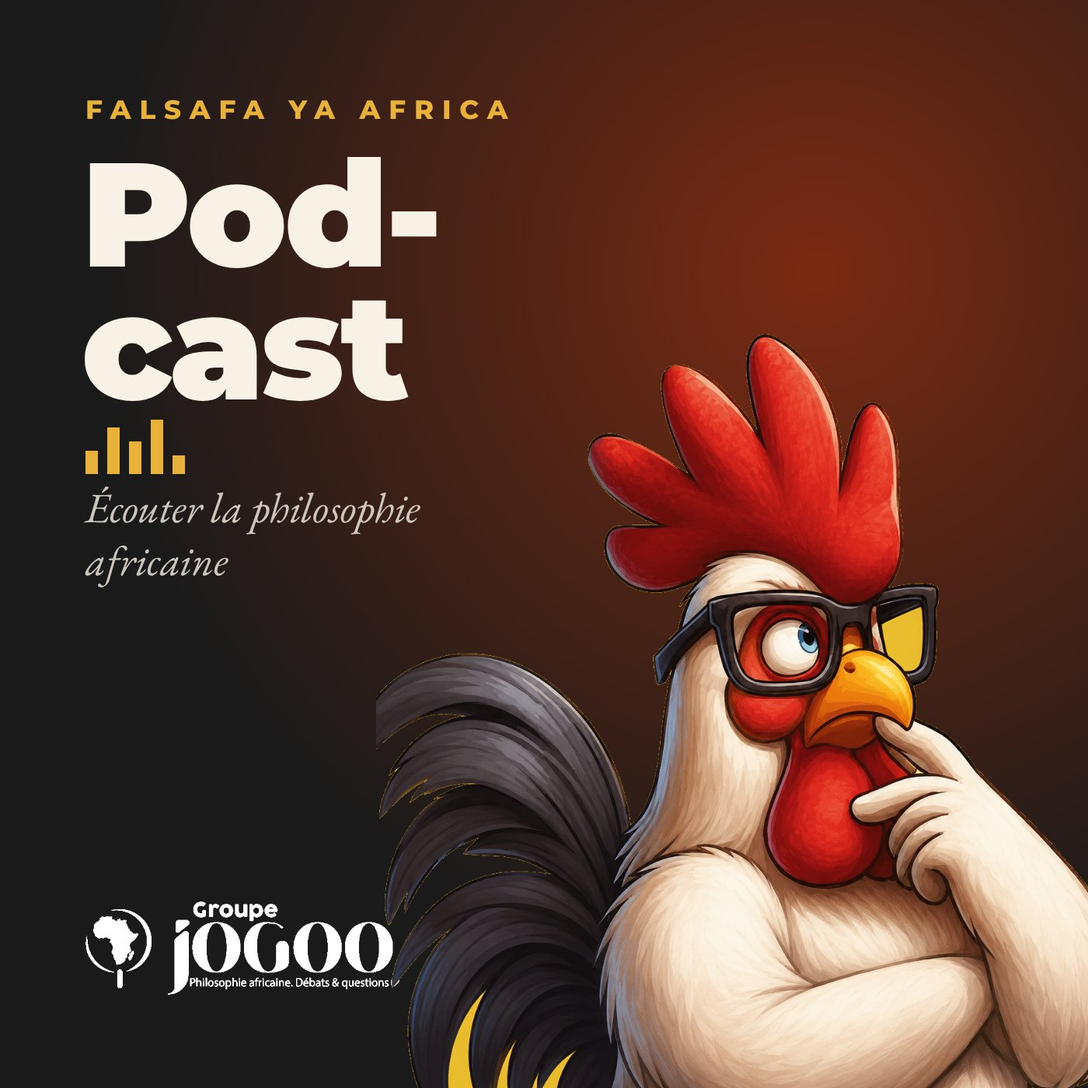
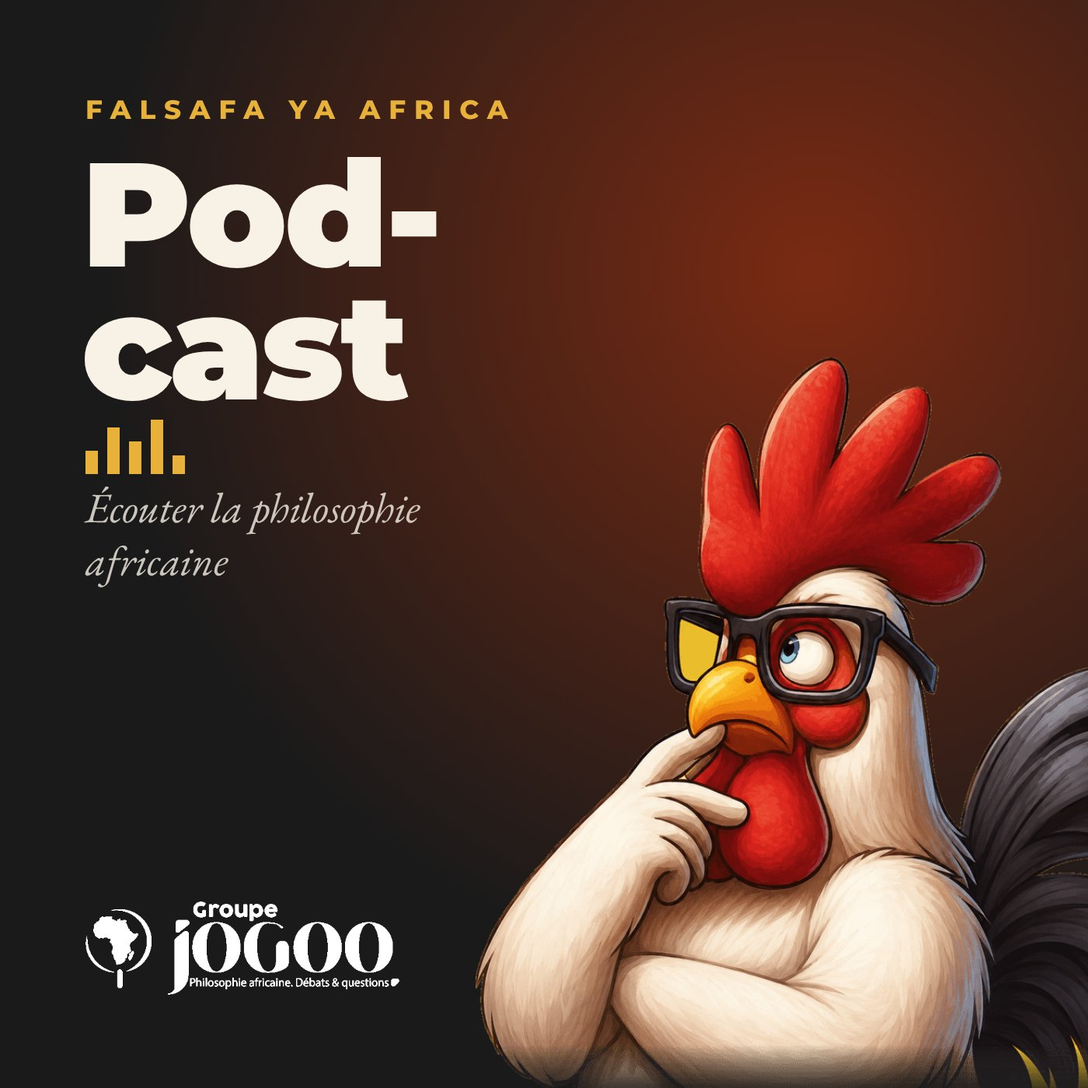
Le coq regarde toujours vers la gauche ; le bout de sa queue, coupé dans le dessin d'origine, s'estompe (accueil, minute du chant du coq, version anglaise, Le Groupe, 404, couverture du podcast, aperçus)
Claude-Session: https://claude.ai/code/session_01Ei6ZiGm8YCTrBxFjrVoT4D

Changed region(s): [[0.3379, 0.3071, 1.0, 1.0]]

diff --git a/design/fragments/page__le-groupe.html b/design/fragments/page__le-groupe.html
@@ -1,1 +1,1 @@
-<header class="relative overflow-hidden border-b border-ink/10 bg-cream/60"><img alt="" aria-hidden="true" class="pointer-events-none absolute -right-10 -top-12 hidden opacity-[0.06] sm:block" decoding="async" height="260" loading="lazy" src="/medias/site/jogoo/icone-jogoo.png" style="width:260px;height:auto" width="260"/><div class="relative mx-auto max-w-6xl px-5 py-14 sm:py-20"><div class="flex items-center gap-3"><span aria-hidden="true" class="inline-flex shrink-0 items-center justify-center bg-terra text-white shrink-0" style="width:34px;height:34px"><img alt="" class="object-contain brightness-0 invert" decoding="async" height="99" loading="lazy" src="/medias/site/jogoo/icons/projet.png" style="max-width:20px;max-height:20px;width:auto;height:auto" width="100"/></span><span class="kicker">Présentation</span></div><h1 class="display-title mt-4 max-w-4xl break-words text-4xl leading-[0.95] text-ink sm:text-6xl lg:text-7xl">Le Groupe JOGOO</h1><p class="mt-6 max-w-2xl font-serif text-lg italic text-ink/80">« Association des Philosophes du Chant du Coq » : un projet de réflexion sur la pensée philosophique dans son ensemble.</p></div></header><section class="border-b border-ink/10 bg-ink text-paper"><dl class="mx-auto grid max-w-6xl gap-px bg-white/10 sm:grid-cols-2 lg:grid-cols-4"><div class="flex gap-4 bg-ink px-6 py-8"><svg aria-hidden="true" class="mt-1 shrink-0 text-gold/70" fill="none" height="26" stroke="currentColor" stroke-linecap="round" stroke-linejoin="round" stroke-width="1.6" viewbox="0 0 24 24" width="26"><path d="M8 3v4M16 3v4M3.5 9h17M5 6h14a1.5 1.5 0 0 1 1.5 1.5V19a1.5 1.5 0 0 1-1.5 1.5H5A1.5 1.5 0 0 1 3.5 19V7.5A1.5 1.5 0 0 1 5 6Z"></path></svg><div><dt class="display-title text-3xl text-gold">2010</dt><dd class="mt-1.5 max-w-[22ch] text-sm leading-snug text-paper/70">Année de fondation</dd></div></div><div class="flex gap-4 bg-ink px-6 py-8"><svg aria-hidden="true" class="mt-1 shrink-0 text-gold/70" fill="none" height="26" stroke="currentColor" stroke-linecap="round" stroke-linejoin="round" stroke-width="1.6" viewbox="0 0 24 24" width="26"><path d="M9 12.5 11 15l4.5-5M6 3h9l4 4v13.5a.5.5 0 0 1-.5.5H6.5a.5.5 0 0 1-.5-.5V3.5A.5.5 0 0 1 6 3Z"></path></svg><div><dt class="display-title text-3xl text-gold">15 mars 2023</dt><dd class="mt-1.5 max-w-[22ch] text-sm leading-snug text-paper/70">Déclaration en association (n° 00000423/RDA/JO6/BAPP)</dd></div></div><div class="flex gap-4 bg-ink px-6 py-8"><svg aria-hidden="true" class="mt-1 shrink-0 text-gold/70" fill="none" height="26" stroke="currentColor" stroke-linecap="round" stroke-linejoin="round" stroke-width="1.6" viewbox="0 0 24 24" width="26"><circle cx="12" cy="4.5" r="2"></circle><circle cx="5" cy="19.5" r="2"></circle><circle cx="19" cy="19.5" r="2"></circle><path d="M12 6.5v6M12 12.5 5 17.5M12 12.5l7 5"></path></svg><div><dt class="display-title text-3xl text-gold">6</dt><dd class="mt-1.5 max-w-[22ch] text-sm leading-snug text-paper/70">Projets autonomes</dd></div></div><div class="flex gap-4 bg-ink px-6 py-8"><svg aria-hidden="true" class="mt-1 shrink-0 text-gold/70" fill="none" height="26" stroke="currentColor" stroke-linecap="round" stroke-linejoin="round" stroke-width="1.6" viewbox="0 0 24 24" width="26"><circle cx="12" cy="12" r="8.5"></circle><path d="m14.8 9.2-2 4.6-4.6 2 2-4.6 4.6-2Z"></path></svg><div><dt class="display-title text-3xl text-gold">10</dt><dd class="mt-1.5 max-w-[22ch] text-sm leading-snug text-paper/70">Axes de recherche</dd></div></div></dl></section><section class="mx-auto max-w-6xl px-5 py-16"><div class=""><p class="kicker mb-2">Fondé en 2010</p><h2 class="display-title text-3xl text-terra sm:text-4xl">Le Pro-jet</h2></div><div class="mt-8 grid gap-10 lg:grid-cols-[1.4fr_1fr]"><div class="prose-jogoo max-w-none"><p>Fondé en 2010, le Groupe JOGOO est déclaré comme association sous le numéro 00000423/RDA/JO6/BAPP du 15 mars 2023 selon la législation camerounaise, sous le sigle ASPHICC-JOGOO : « Association des Philosophes du Chant du Coq ».</p><p>JOGOO est un projet de réflexion sur la pensée philosophique dans son ensemble, qui voudrait situer ses enjeux par rapport à la pensée noire, par des Africains tout comme par des non-Africains, sur des problèmes et des problématiques de l’humain.</p></div><aside class="self-start overflow-hidden border border-ink/10 bg-cream/60"><div class="flex items-center justify-center bg-gold px-6 pt-8"><img alt="Le coq penseur, emblème du Groupe JOGOO" class="h-40 w-auto [filter:drop-shadow(0_10px_14px_rgba(60,35,5,0.3))]" decoding="async" height="1232" loading="lazy" src="/medias/site/jogoo/coq-penseur-t.png" width="1203"/></div><div class="border-t-2 border-terra p-6"><p class="font-serif text-lg italic leading-relaxed text-ink">Le mot « Jogoo » désigne le « coq » en swahili. Cette image est mise en valeur lors des journées philosophiques organisées par le département de philosophie de Lubumbashi (RDC) au sujet de l’enseignement de la philosophie. Contrairement à la chouette de Hegel, animal du crépuscule, le coq est l’animal de l’aurore : celui qui nous réveille, celui qui nous met au travail. La palette africaine des couleurs de base comporte le noir, le rouge, le blanc et l’ocre jaune.</p><div class="mt-6"><p class="kicker">Palette de la charte</p><ul class="mt-3 flex flex-wrap gap-4"><li class="flex items-center gap-2 text-sm text-ink-soft"><span aria-hidden="true" class="h-5 w-5 bg-ink"></span>Noir</li><li class="flex items-center gap-2 text-sm text-ink-soft"><span aria-hidden="true" class="h-5 w-5 bg-terra"></span>Rouge</li><li class="flex items-center gap-2 text-sm text-ink-soft"><span aria-hidden="true" class="h-5 w-5 bg-white border border-ink/15"></span>Blanc</li><li class="flex items-center gap-2 text-sm text-ink-soft"><span aria-hidden="true" class="h-5 w-5 bg-gold"></span>Ocre jaune</li></ul></div></div></aside></div></section><section class="border-y border-ink/10 bg-cream"><div class="mx-auto max-w-6xl px-5 py-16"><div class="grid gap-6 lg:grid-cols-2 lg:items-stretch"><div class="flex h-full flex-col border border-ink/12 bg-white p-7 sm:p-8"><div class="flex items-center gap-4"><span aria-hidden="true" class="inline-flex shrink-0 items-center justify-center bg-terra text-white" style="width:44px;height:44px"><img alt="" class="object-contain brightness-0 invert" decoding="async" height="99" loading="lazy" src="/medias/site/jogoo/icons/projet.png" style="max-width:26px;max-height:26px;width:auto;height:auto" width="100"/></span><div><p class="kicker">6 priorités</p><h2 class="display-title text-2xl text-ink">Objectifs</h2></div></div><ol class="mt-7 space-y-4"><li class="flex gap-4"><span class="font-brand text-sm font-bold text-terra-deep">01</span><span class="text-[0.97rem] leading-relaxed text-ink-soft">Mobiliser toutes les ressources humaines et intellectuelles intéressées par la réflexion philosophique dans l’espace socio-culturel africain et de la diaspora ;</span></li><li class="flex gap-4"><span class="font-brand text-sm font-bold text-terra-deep">02</span><span class="text-[0.97rem] leading-relaxed text-ink-soft">Susciter et encourager le débat scientifique et critique ;</span></li><li class="flex gap-4"><span class="font-brand text-sm font-bold text-terra-deep">03</span><span class="text-[0.97rem] leading-relaxed text-ink-soft">Démystifier la production philosophique et intellectuelle africaine et de la diaspora ;</span></li><li class="flex gap-4"><span class="font-brand text-sm font-bold text-terra-deep">04</span><span class="text-[0.97rem] leading-relaxed text-ink-soft">Se réapproprier ou vulgariser la production intellectuelle des penseurs qui nous ont précédés ;</span></li><li class="flex gap-4"><span class="font-brand text-sm font-bold text-terra-deep">05</span><span class="text-[0.97rem] leading-relaxed text-ink-soft">Encourager des projets de publication autour de la philosophie africaine ;</span></li><li class="flex gap-4"><span class="font-brand text-sm font-bold text-terra-deep">06</span><span class="text-[0.97rem] leading-relaxed text-ink-soft">Accompagner les chercheurs dans leurs projets d’éditions et de publication.</span></li></ol><p class="mt-auto flex items-center gap-2 pt-8 text-sm italic text-ink/45"><span aria-hidden="true" class="h-px flex-1 bg-ink/10"></span>Voir aussi les statuts de l’association</p></div><div class="flex h-full flex-col border border-ink/12 bg-white p-7 sm:p-8"><div class="flex items-center gap-4"><span aria-hidden="true" class="inline-flex shrink-0 items-center justify-center bg-terra text-white" style="width:44px;height:44px"><img alt="" class="object-contain brightness-0 invert" decoding="async" height="110" loading="lazy" src="/medias/site/jogoo/icons/action.png" style="max-width:26px;max-height:26px;width:auto;height:auto" width="90"/></span><div><p class="kicker">9 leviers</p><h2 class="display-title text-2xl text-ink">Moyens d’action</h2></div></div><ul class="mt-7 space-y-4"><li class="flex gap-4 text-[0.97rem] leading-relaxed text-ink-soft"><span aria-hidden="true" class="mt-2 h-1.5 w-1.5 shrink-0 rotate-45 bg-terra"></span>Organiser des activités de publication, des colloques, conférences, séminaires et webinaires, et mettre en place les moyens utiles à leur diffusion et à leur communication ;</li><li class="flex gap-4 text-[0.97rem] leading-relaxed text-ink-soft"><span aria-hidden="true" class="mt-2 h-1.5 w-1.5 shrink-0 rotate-45 bg-terra"></span>Solliciter et réunir toutes les expertises nécessaires (universitaires, chercheurs, experts de terrain et toute personnalité qualifiée) à la réalisation de son objet ;</li><li class="flex gap-4 text-[0.97rem] leading-relaxed text-ink-soft"><span aria-hidden="true" class="mt-2 h-1.5 w-1.5 shrink-0 rotate-45 bg-terra"></span>S’appuyer notamment sur son comité scientifique ;</li><li class="flex gap-4 text-[0.97rem] leading-relaxed text-ink-soft"><span aria-hidden="true" class="mt-2 h-1.5 w-1.5 shrink-0 rotate-45 bg-terra"></span>Nouer des partenariats avec les acteurs de la vie intellectuelle et du monde de la recherche, et prendre les contacts utiles avec les pouvoirs publics, les collectivités et les médias ;</li><li class="flex gap-4 text-[0.97rem] leading-relaxed text-ink-soft"><span aria-hidden="true" class="mt-2 h-1.5 w-1.5 shrink-0 rotate-45 bg-terra"></span>Développer les coopérations nécessaires entre régions, dans un objectif de mutualisation des connaissances et dans un esprit d’interdisciplinarité ;</li><li class="flex gap-4 text-[0.97rem] leading-relaxed text-ink-soft"><span aria-hidden="true" class="mt-2 h-1.5 w-1.5 shrink-0 rotate-45 bg-terra"></span>Proposer une assistance à la publication par le moyen de sa maison d’éditions ;</li><li class="flex gap-4 text-[0.97rem] leading-relaxed text-ink-soft"><span aria-hidden="true" class="mt-2 h-1.5 w-1.5 shrink-0 rotate-45 bg-terra"></span>Initier des projets participatifs pour promouvoir la recherche, le dialogue des cultures, la parité et l’éducation ;</li><li class="flex gap-4 text-[0.97rem] leading-relaxed text-ink-soft"><span aria-hidden="true" class="mt-2 h-1.5 w-1.5 shrink-0 rotate-45 bg-terra"></span>Proposer un accompagnement des chercheurs et travailler à leur visibilité par le moyen de son agence de communication ;</li><li class="flex gap-4 text-[0.97rem] leading-relaxed text-ink-soft"><span aria-hidden="true" class="mt-2 h-1.5 w-1.5 shrink-0 rotate-45 bg-terra"></span>Effectuer des enquêtes et des recherches, mener des études nationales.</li></ul><p class="mt-auto flex items-center gap-2 pt-8 text-sm italic text-ink/45"><span aria-hidden="true" class="h-px flex-1 bg-ink/10"></span>Précisés par la ligne éditoriale</p></div></div></div></section><section class="mx-auto max-w-6xl px-5 py-16"><div class=""><p class="kicker mb-2">Les</p><h2 class="display-title text-3xl text-terra sm:text-4xl">Activités</h2></div><div class="mt-8 grid gap-4 sm:grid-cols-2 lg:grid-cols-4"><div class="flex h-full flex-col border border-ink/12 bg-white p-6"><span aria-hidden="true" class="inline-flex shrink-0 items-center justify-center bg-terra text-white" style="width:40px;height:40px"><img alt="" class="object-contain brightness-0 invert" decoding="async" height="110" loading="lazy" src="/medias/site/jogoo/icons/action.png" style="max-width:24px;max-height:24px;width:auto;height:auto" width="90"/></span><h3 class="mt-4 font-brand text-base font-bold text-ink">Axes de recherche</h3><ul class="mt-3 space-y-2 text-sm leading-snug text-ink-soft"><li class="border-t border-ink/8 pt-2 first:border-0 first:pt-0">Histoire, herméneutique et phénoménologie en contexte africain</li><li class="border-t border-ink/8 pt-2 first:border-0 first:pt-0">Savoirs endogènes, épistémologies, rationalités, cultures et sociétés africaines</li><li class="border-t border-ink/8 pt-2 first:border-0 first:pt-0">Ontologie, philosophie africaine de la religion</li><li class="border-t border-ink/8 pt-2 first:border-0 first:pt-0">Philosophie de l’art et de l’esthétique africaine</li><li class="border-t border-ink/8 pt-2 first:border-0 first:pt-0">Politique, éthique, identité &amp; genres, grands problèmes contemporains</li></ul></div><div class="flex h-full flex-col border border-ink/12 bg-white p-6"><span aria-hidden="true" class="inline-flex shrink-0 items-center justify-center bg-terra text-white" style="width:40px;height:40px"><img alt="" class="object-contain brightness-0 invert" decoding="async" height="108" loading="lazy" src="/medias/site/jogoo/icons/revue.png" style="max-width:24px;max-height:24px;width:auto;height:auto" width="83"/></span><h3 class="mt-4 font-brand text-base font-bold text-ink">Organes d’expression</h3><ul class="mt-3 space-y-2 text-sm leading-snug text-ink-soft"><li class="border-t border-ink/8 pt-2 first:border-0 first:pt-0">Revue JOGOO (revue de philosophie africaine et de culture)</li><li class="border-t border-ink/8 pt-2 first:border-0 first:pt-0">Philo Africaine Magazine</li></ul></div><div class="flex h-full flex-col border border-ink/12 bg-white p-6"><span aria-hidden="true" class="inline-flex shrink-0 items-center justify-center bg-terra text-white" style="width:40px;height:40px"><img alt="" class="object-contain brightness-0 invert" decoding="async" height="160" loading="lazy" src="/medias/site/jogoo/icons/sankofa.png" style="max-width:24px;max-height:24px;width:auto;height:auto" width="162"/></span><h3 class="mt-4 font-brand text-base font-bold text-ink">Structures</h3><ul class="mt-3 space-y-2 text-sm leading-snug text-ink-soft"><li class="border-t border-ink/8 pt-2 first:border-0 first:pt-0">Sankofa Communications (agence de communication)</li><li class="border-t border-ink/8 pt-2 first:border-0 first:pt-0">Éditions JOGOO (maison d’édition)</li></ul></div><div class="flex h-full flex-col border border-ink/12 bg-white p-6"><span aria-hidden="true" class="inline-flex shrink-0 items-center justify-center bg-terra text-white" style="width:40px;height:40px"><img alt="" class="object-contain brightness-0 invert" decoding="async" height="101" loading="lazy" src="/medias/site/jogoo/icons/fonds.png" style="max-width:24px;max-height:24px;width:auto;height:auto" width="86"/></span><h3 class="mt-4 font-brand text-base font-bold text-ink">Projets de recherche</h3><ul class="mt-3 space-y-2 text-sm leading-snug text-ink-soft"><li class="border-t border-ink/8 pt-2 first:border-0 first:pt-0">Fonds Eboussi Boulaga</li><li class="border-t border-ink/8 pt-2 first:border-0 first:pt-0">Recherches en phénoménologie et herméneutique africaines</li></ul></div></div></section><section class="border-t border-ink/10 bg-paper"><div class="mx-auto max-w-6xl px-5 py-16"><div class=""><h2 class="display-title text-3xl text-terra sm:text-4xl">Ligne éditoriale</h2></div><div class="mt-8 grid gap-10 lg:grid-cols-[1.3fr_1fr]"><div class="prose-jogoo max-w-none"><p>L’ensemble du contenu de cet espace est libre : sous forme de posts, de brèves ou de chroniques, mais aussi sous forme d’articles à travers la revue qu’héberge le site. Le but est avant tout de contribuer à la diffusion de la philosophie africaine, souvent peu appréciée parce que peu et/ou mal connue.</p><p>Le contenu du site est mis sous l’autorité intellectuelle du Groupe JOGOO. Directeur de la publication et responsable du site : Yannick Essengue, président du Groupe JOGOO. Le contenu est mis à disposition selon les termes de la Licence Creative Commons Attribution – Pas d’Utilisation Commerciale – Pas de Modification 3.0 France.</p></div><div class="self-start"><p class="kicker">Quelques mots-clés</p><ul class="mt-3 flex flex-wrap gap-2"><li class="border border-ink/12 bg-cream/60 px-2.5 py-1 text-xs text-ink-soft">philosophie</li><li class="border border-ink/12 bg-cream/60 px-2.5 py-1 text-xs text-ink-soft">Afrique</li><li class="border border-ink/12 bg-cream/60 px-2.5 py-1 text-xs text-ink-soft">philosophie africaine</li><li class="border border-ink/12 bg-cream/60 px-2.5 py-1 text-xs text-ink-soft">conceptualisation</li><li class="border border-ink/12 bg-cream/60 px-2.5 py-1 text-xs text-ink-soft">sémiotique</li><li class="border border-ink/12 bg-cream/60 px-2.5 py-1 text-xs text-ink-soft">herméneutique</li><li class="border border-ink/12 bg-cream/60 px-2.5 py-1 text-xs text-ink-soft">discours</li><li class="border border-ink/12 bg-cream/60 px-2.5 py-1 text-xs text-ink-soft">discursivité</li><li class="border border-ink/12 bg-cream/60 px-2.5 py-1 text-xs text-ink-soft">sens</li><li class="border border-ink/12 bg-cream/60 px-2.5 py-1 text-xs text-ink-soft">signification</li><li class="border border-ink/12 bg-cream/60 px-2.5 py-1 text-xs text-ink-soft">parémiologie</li><li class="border border-ink/12 bg-cream/60 px-2.5 py-1 text-xs text-ink-soft">identité</li><li class="border border-ink/12 bg-cream/60 px-2.5 py-1 text-xs text-ink-soft">développement</li><li class="border border-ink/12 bg-cream/60 px-2.5 py-1 text-xs text-ink-soft">culture</li><li class="border border-ink/12 bg-cream/60 px-2.5 py-1 text-xs text-ink-soft">structure</li><li class="border border-ink/12 bg-cream/60 px-2.5 py-1 text-xs text-ink-soft">vie</li><li class="border border-ink/12 bg-cream/60 px-2.5 py-1 text-xs text-ink-soft">être</li><li class="border border-ink/12 bg-cream/60 px-2.5 py-1 text-xs text-ink-soft">ontologie</li><li class="border border-ink/12 bg-cream/60 px-2.5 py-1 text-xs text-ink-soft">Muntu</li><li class="border border-ink/12 bg-cream/60 px-2.5 py-1 text-xs text-ink-soft">interculturalité</li><li class="border border-ink/12 bg-cream/60 px-2.5 py-1 text-xs text-ink-soft">oralité</li><li class="border border-ink/12 bg-cream/60 px-2.5 py-1 text-xs text-ink-soft">écriture</li></ul></div></div></div></section><section class="border-t border-ink/10 bg-cream"><div class="mx-auto max-w-6xl px-5 py-16"><div class=""><p class="kicker mb-2">Gouvernance</p><h2 class="display-title text-3xl text-terra sm:text-4xl">Personnes ressources</h2></div><div class="mt-8 grid gap-4 sm:grid-cols-3"><div class="border-t-2 border-terra bg-white p-6"><p class="kicker">Président</p><p class="mt-2 font-brand text-lg font-bold text-ink">Yannick Essengue</p></div><div class="border-t-2 border-terra bg-white p-6"><p class="kicker">Vice-présidents</p><p class="mt-2 font-brand text-lg font-bold text-ink">Adoulou N. Bitang &amp; Sandrine Kongoue</p></div><div class="border-t-2 border-terra bg-white p-6"><p class="kicker">Secrétaire général</p><p class="mt-2 font-brand text-lg font-bold text-ink">Jean René Mabwilo</p></div></div><p class="mt-6 max-w-2xl text-sm text-ink-soft">Comité scientifique, statuts, adhésion et soutien : écrire à <a class="text-terra-deep underline underline-offset-2" href="mailto:philoafricaine@gmail.com">philoafricaine@gmail.com</a> , voir aussi la page <a class="text-terra-deep underline underline-offset-2" href="/contact">Contact</a>.</p></div></section><figure class="relative w-full overflow-hidden bg-ink" style="min-height:460px"><img alt="Portrait d’un jeune enfant, en noir et blanc" class="object-cover object-center opacity-80 grayscale" decoding="async" loading="lazy" src="/medias/site/jogoo/photo-enfant.jpg" style="position:absolute;height:100%;width:100%;left:0;top:0;right:0;bottom:0"/><div class="absolute inset-0 bg-gradient-to-r from-ink/95 via-ink/70 to-ink/30"></div><div class="relative mx-auto flex max-w-4xl flex-col justify-center px-6 py-14" style="min-height:460px"><span aria-hidden="true" class="mb-1 font-serif text-6xl leading-none text-terra">“</span><blockquote class="max-w-2xl font-serif text-lg italic leading-relaxed text-paper sm:text-xl">La philosophie ne commence qu’avec la décision de soumettre l’héritage philosophique et culturel à une critique sans complaisance. En fait la philosophie est essentiellement sacrilège.</blockquote><figcaption class="mt-3 text-sm font-medium not-italic text-gold">– Marcien Towa, Essai sur la problématique philosophique dans l’Afrique actuelle, Yaoundé, CLE, 1971, p. 29-30.</figcaption></div></figure>
+<header class="relative overflow-hidden border-b border-ink/10 bg-cream/60"><img alt="" aria-hidden="true" class="pointer-events-none absolute -right-10 -top-12 hidden opacity-[0.06] sm:block" decoding="async" height="260" loading="lazy" src="/medias/site/jogoo/icone-jogoo.png" style="width:260px;height:auto" width="260"/><div class="relative mx-auto max-w-6xl px-5 py-14 sm:py-20"><div class="flex items-center gap-3"><span aria-hidden="true" class="inline-flex shrink-0 items-center justify-center bg-terra text-white shrink-0" style="width:34px;height:34px"><img alt="" class="object-contain brightness-0 invert" decoding="async" height="99" loading="lazy" src="/medias/site/jogoo/icons/projet.png" style="max-width:20px;max-height:20px;width:auto;height:auto" width="100"/></span><span class="kicker">Présentation</span></div><h1 class="display-title mt-4 max-w-4xl break-words text-4xl leading-[0.95] text-ink sm:text-6xl lg:text-7xl">Le Groupe JOGOO</h1><p class="mt-6 max-w-2xl font-serif text-lg italic text-ink/80">« Association des Philosophes du Chant du Coq » : un projet de réflexion sur la pensée philosophique dans son ensemble.</p></div></header><section class="border-b border-ink/10 bg-ink text-paper"><dl class="mx-auto grid max-w-6xl gap-px bg-white/10 sm:grid-cols-2 lg:grid-cols-4"><div class="flex gap-4 bg-ink px-6 py-8"><svg aria-hidden="true" class="mt-1 shrink-0 text-gold/70" fill="none" height="26" stroke="currentColor" stroke-linecap="round" stroke-linejoin="round" stroke-width="1.6" viewbox="0 0 24 24" width="26"><path d="M8 3v4M16 3v4M3.5 9h17M5 6h14a1.5 1.5 0 0 1 1.5 1.5V19a1.5 1.5 0 0 1-1.5 1.5H5A1.5 1.5 0 0 1 3.5 19V7.5A1.5 1.5 0 0 1 5 6Z"></path></svg><div><dt class="display-title text-3xl text-gold">2010</dt><dd class="mt-1.5 max-w-[22ch] text-sm leading-snug text-paper/70">Année de fondation</dd></div></div><div class="flex gap-4 bg-ink px-6 py-8"><svg aria-hidden="true" class="mt-1 shrink-0 text-gold/70" fill="none" height="26" stroke="currentColor" stroke-linecap="round" stroke-linejoin="round" stroke-width="1.6" viewbox="0 0 24 24" width="26"><path d="M9 12.5 11 15l4.5-5M6 3h9l4 4v13.5a.5.5 0 0 1-.5.5H6.5a.5.5 0 0 1-.5-.5V3.5A.5.5 0 0 1 6 3Z"></path></svg><div><dt class="display-title text-3xl text-gold">15 mars 2023</dt><dd class="mt-1.5 max-w-[22ch] text-sm leading-snug text-paper/70">Déclaration en association (n° 00000423/RDA/JO6/BAPP)</dd></div></div><div class="flex gap-4 bg-ink px-6 py-8"><svg aria-hidden="true" class="mt-1 shrink-0 text-gold/70" fill="none" height="26" stroke="currentColor" stroke-linecap="round" stroke-linejoin="round" stroke-width="1.6" viewbox="0 0 24 24" width="26"><circle cx="12" cy="4.5" r="2"></circle><circle cx="5" cy="19.5" r="2"></circle><circle cx="19" cy="19.5" r="2"></circle><path d="M12 6.5v6M12 12.5 5 17.5M12 12.5l7 5"></path></svg><div><dt class="display-title text-3xl text-gold">6</dt><dd class="mt-1.5 max-w-[22ch] text-sm leading-snug text-paper/70">Projets autonomes</dd></div></div><div class="flex gap-4 bg-ink px-6 py-8"><svg aria-hidden="true" class="mt-1 shrink-0 text-gold/70" fill="none" height="26" stroke="currentColor" stroke-linecap="round" stroke-linejoin="round" stroke-width="1.6" viewbox="0 0 24 24" width="26"><circle cx="12" cy="12" r="8.5"></circle><path d="m14.8 9.2-2 4.6-4.6 2 2-4.6 4.6-2Z"></path></svg><div><dt class="display-title text-3xl text-gold">10</dt><dd class="mt-1.5 max-w-[22ch] text-sm leading-snug text-paper/70">Axes de recherche</dd></div></div></dl></section><section class="mx-auto max-w-6xl px-5 py-16"><div class=""><p class="kicker mb-2">Fondé en 2010</p><h2 class="display-title text-3xl text-terra sm:text-4xl">Le Pro-jet</h2></div><div class="mt-8 grid gap-10 lg:grid-cols-[1.4fr_1fr]"><div class="prose-jogoo max-w-none"><p>Fondé en 2010, le Groupe JOGOO est déclaré comme association sous le numéro 00000423/RDA/JO6/BAPP du 15 mars 2023 selon la législation camerounaise, sous le sigle ASPHICC-JOGOO : « Association des Philosophes du Chant du Coq ».</p><p>JOGOO est un projet de réflexion sur la pensée philosophique dans son ensemble, qui voudrait situer ses enjeux par rapport à la pensée noire, par des Africains tout comme par des non-Africains, sur des problèmes et des problématiques de l’humain.</p></div><aside class="self-start overflow-hidden border border-ink/10 bg-cream/60"><div class="flex items-center justify-center bg-gold px-6 pt-8"><img alt="Le coq penseur, emblème du Groupe JOGOO" class="h-40 w-auto [filter:drop-shadow(0_10px_14px_rgba(60,35,5,0.3))]" decoding="async" height="1232" loading="lazy" src="/medias/site/jogoo/coq-penseur-gauche.png" width="1203"/></div><div class="border-t-2 border-terra p-6"><p class="font-serif text-lg italic leading-relaxed text-ink">Le mot « Jogoo » désigne le « coq » en swahili. Cette image est mise en valeur lors des journées philosophiques organisées par le département de philosophie de Lubumbashi (RDC) au sujet de l’enseignement de la philosophie. Contrairement à la chouette de Hegel, animal du crépuscule, le coq est l’animal de l’aurore : celui qui nous réveille, celui qui nous met au travail. La palette africaine des couleurs de base comporte le noir, le rouge, le blanc et l’ocre jaune.</p><div class="mt-6"><p class="kicker">Palette de la charte</p><ul class="mt-3 flex flex-wrap gap-4"><li class="flex items-center gap-2 text-sm text-ink-soft"><span aria-hidden="true" class="h-5 w-5 bg-ink"></span>Noir</li><li class="flex items-center gap-2 text-sm text-ink-soft"><span aria-hidden="true" class="h-5 w-5 bg-terra"></span>Rouge</li><li class="flex items-center gap-2 text-sm text-ink-soft"><span aria-hidden="true" class="h-5 w-5 bg-white border border-ink/15"></span>Blanc</li><li class="flex items-center gap-2 text-sm text-ink-soft"><span aria-hidden="true" class="h-5 w-5 bg-gold"></span>Ocre jaune</li></ul></div></div></aside></div></section><section class="border-y border-ink/10 bg-cream"><div class="mx-auto max-w-6xl px-5 py-16"><div class="grid gap-6 lg:grid-cols-2 lg:items-stretch"><div class="flex h-full flex-col border border-ink/12 bg-white p-7 sm:p-8"><div class="flex items-center gap-4"><span aria-hidden="true" class="inline-flex shrink-0 items-center justify-center bg-terra text-white" style="width:44px;height:44px"><img alt="" class="object-contain brightness-0 invert" decoding="async" height="99" loading="lazy" src="/medias/site/jogoo/icons/projet.png" style="max-width:26px;max-height:26px;width:auto;height:auto" width="100"/></span><div><p class="kicker">6 priorités</p><h2 class="display-title text-2xl text-ink">Objectifs</h2></div></div><ol class="mt-7 space-y-4"><li class="flex gap-4"><span class="font-brand text-sm font-bold text-terra-deep">01</span><span class="text-[0.97rem] leading-relaxed text-ink-soft">Mobiliser toutes les ressources humaines et intellectuelles intéressées par la réflexion philosophique dans l’espace socio-culturel africain et de la diaspora ;</span></li><li class="flex gap-4"><span class="font-brand text-sm font-bold text-terra-deep">02</span><span class="text-[0.97rem] leading-relaxed text-ink-soft">Susciter et encourager le débat scientifique et critique ;</span></li><li class="flex gap-4"><span class="font-brand text-sm font-bold text-terra-deep">03</span><span class="text-[0.97rem] leading-relaxed text-ink-soft">Démystifier la production philosophique et intellectuelle africaine et de la diaspora ;</span></li><li class="flex gap-4"><span class="font-brand text-sm font-bold text-terra-deep">04</span><span class="text-[0.97rem] leading-relaxed text-ink-soft">Se réapproprier ou vulgariser la production intellectuelle des penseurs qui nous ont précédés ;</span></li><li class="flex gap-4"><span class="font-brand text-sm font-bold text-terra-deep">05</span><span class="text-[0.97rem] leading-relaxed text-ink-soft">Encourager des projets de publication autour de la philosophie africaine ;</span></li><li class="flex gap-4"><span class="font-brand text-sm font-bold text-terra-deep">06</span><span class="text-[0.97rem] leading-relaxed text-ink-soft">Accompagner les chercheurs dans leurs projets d’éditions et de publication.</span></li></ol><p class="mt-auto flex items-center gap-2 pt-8 text-sm italic text-ink/45"><span aria-hidden="true" class="h-px flex-1 bg-ink/10"></span>Voir aussi les statuts de l’association</p></div><div class="flex h-full flex-col border border-ink/12 bg-white p-7 sm:p-8"><div class="flex items-center gap-4"><span aria-hidden="true" class="inline-flex shrink-0 items-center justify-center bg-terra text-white" style="width:44px;height:44px"><img alt="" class="object-contain brightness-0 invert" decoding="async" height="110" loading="lazy" src="/medias/site/jogoo/icons/action.png" style="max-width:26px;max-height:26px;width:auto;height:auto" width="90"/></span><div><p class="kicker">9 leviers</p><h2 class="display-title text-2xl text-ink">Moyens d’action</h2></div></div><ul class="mt-7 space-y-4"><li class="flex gap-4 text-[0.97rem] leading-relaxed text-ink-soft"><span aria-hidden="true" class="mt-2 h-1.5 w-1.5 shrink-0 rotate-45 bg-terra"></span>Organiser des activités de publication, des colloques, conférences, séminaires et webinaires, et mettre en place les moyens utiles à leur diffusion et à leur communication ;</li><li class="flex gap-4 text-[0.97rem] leading-relaxed text-ink-soft"><span aria-hidden="true" class="mt-2 h-1.5 w-1.5 shrink-0 rotate-45 bg-terra"></span>Solliciter et réunir toutes les expertises nécessaires (universitaires, chercheurs, experts de terrain et toute personnalité qualifiée) à la réalisation de son objet ;</li><li class="flex gap-4 text-[0.97rem] leading-relaxed text-ink-soft"><span aria-hidden="true" class="mt-2 h-1.5 w-1.5 shrink-0 rotate-45 bg-terra"></span>S’appuyer notamment sur son comité scientifique ;</li><li class="flex gap-4 text-[0.97rem] leading-relaxed text-ink-soft"><span aria-hidden="true" class="mt-2 h-1.5 w-1.5 shrink-0 rotate-45 bg-terra"></span>Nouer des partenariats avec les acteurs de la vie intellectuelle et du monde de la recherche, et prendre les contacts utiles avec les pouvoirs publics, les collectivités et les médias ;</li><li class="flex gap-4 text-[0.97rem] leading-relaxed text-ink-soft"><span aria-hidden="true" class="mt-2 h-1.5 w-1.5 shrink-0 rotate-45 bg-terra"></span>Développer les coopérations nécessaires entre régions, dans un objectif de mutualisation des connaissances et dans un esprit d’interdisciplinarité ;</li><li class="flex gap-4 text-[0.97rem] leading-relaxed text-ink-soft"><span aria-hidden="true" class="mt-2 h-1.5 w-1.5 shrink-0 rotate-45 bg-terra"></span>Proposer une assistance à la publication par le moyen de sa maison d’éditions ;</li><li class="flex gap-4 text-[0.97rem] leading-relaxed text-ink-soft"><span aria-hidden="true" class="mt-2 h-1.5 w-1.5 shrink-0 rotate-45 bg-terra"></span>Initier des projets participatifs pour promouvoir la recherche, le dialogue des cultures, la parité et l’éducation ;</li><li class="flex gap-4 text-[0.97rem] leading-relaxed text-ink-soft"><span aria-hidden="true" class="mt-2 h-1.5 w-1.5 shrink-0 rotate-45 bg-terra"></span>Proposer un accompagnement des chercheurs et travailler à leur visibilité par le moyen de son agence de communication ;</li><li class="flex gap-4 text-[0.97rem] leading-relaxed text-ink-soft"><span aria-hidden="true" class="mt-2 h-1.5 w-1.5 shrink-0 rotate-45 bg-terra"></span>Effectuer des enquêtes et des recherches, mener des études nationales.</li></ul><p class="mt-auto flex items-center gap-2 pt-8 text-sm italic text-ink/45"><span aria-hidden="true" class="h-px flex-1 bg-ink/10"></span>Précisés par la ligne éditoriale</p></div></div></div></section><section class="mx-auto max-w-6xl px-5 py-16"><div class=""><p class="kicker mb-2">Les</p><h2 class="display-title text-3xl text-terra sm:text-4xl">Activités</h2></div><div class="mt-8 grid gap-4 sm:grid-cols-2 lg:grid-cols-4"><div class="flex h-full flex-col border border-ink/12 bg-white p-6"><span aria-hidden="true" class="inline-flex shrink-0 items-center justify-center bg-terra text-white" style="width:40px;height:40px"><img alt="" class="object-contain brightness-0 invert" decoding="async" height="110" loading="lazy" src="/medias/site/jogoo/icons/action.png" style="max-width:24px;max-height:24px;width:auto;height:auto" width="90"/></span><h3 class="mt-4 font-brand text-base font-bold text-ink">Axes de recherche</h3><ul class="mt-3 space-y-2 text-sm leading-snug text-ink-soft"><li class="border-t border-ink/8 pt-2 first:border-0 first:pt-0">Histoire, herméneutique et phénoménologie en contexte africain</li><li class="border-t border-ink/8 pt-2 first:border-0 first:pt-0">Savoirs endogènes, épistémologies, rationalités, cultures et sociétés africaines</li><li class="border-t border-ink/8 pt-2 first:border-0 first:pt-0">Ontologie, philosophie africaine de la religion</li><li class="border-t border-ink/8 pt-2 first:border-0 first:pt-0">Philosophie de l’art et de l’esthétique africaine</li><li class="border-t border-ink/8 pt-2 first:border-0 first:pt-0">Politique, éthique, identité &amp; genres, grands problèmes contemporains</li></ul></div><div class="flex h-full flex-col border border-ink/12 bg-white p-6"><span aria-hidden="true" class="inline-flex shrink-0 items-center justify-center bg-terra text-white" style="width:40px;height:40px"><img alt="" class="object-contain brightness-0 invert" decoding="async" height="108" loading="lazy" src="/medias/site/jogoo/icons/revue.png" style="max-width:24px;max-height:24px;width:auto;height:auto" width="83"/></span><h3 class="mt-4 font-brand text-base font-bold text-ink">Organes d’expression</h3><ul class="mt-3 space-y-2 text-sm leading-snug text-ink-soft"><li class="border-t border-ink/8 pt-2 first:border-0 first:pt-0">Revue JOGOO (revue de philosophie africaine et de culture)</li><li class="border-t border-ink/8 pt-2 first:border-0 first:pt-0">Philo Africaine Magazine</li></ul></div><div class="flex h-full flex-col border border-ink/12 bg-white p-6"><span aria-hidden="true" class="inline-flex shrink-0 items-center justify-center bg-terra text-white" style="width:40px;height:40px"><img alt="" class="object-contain brightness-0 invert" decoding="async" height="160" loading="lazy" src="/medias/site/jogoo/icons/sankofa.png" style="max-width:24px;max-height:24px;width:auto;height:auto" width="162"/></span><h3 class="mt-4 font-brand text-base font-bold text-ink">Structures</h3><ul class="mt-3 space-y-2 text-sm leading-snug text-ink-soft"><li class="border-t border-ink/8 pt-2 first:border-0 first:pt-0">Sankofa Communications (agence de communication)</li><li class="border-t border-ink/8 pt-2 first:border-0 first:pt-0">Éditions JOGOO (maison d’édition)</li></ul></div><div class="flex h-full flex-col border border-ink/12 bg-white p-6"><span aria-hidden="true" class="inline-flex shrink-0 items-center justify-center bg-terra text-white" style="width:40px;height:40px"><img alt="" class="object-contain brightness-0 invert" decoding="async" height="101" loading="lazy" src="/medias/site/jogoo/icons/fonds.png" style="max-width:24px;max-height:24px;width:auto;height:auto" width="86"/></span><h3 class="mt-4 font-brand text-base font-bold text-ink">Projets de recherche</h3><ul class="mt-3 space-y-2 text-sm leading-snug text-ink-soft"><li class="border-t border-ink/8 pt-2 first:border-0 first:pt-0">Fonds Eboussi Boulaga</li><li class="border-t border-ink/8 pt-2 first:border-0 first:pt-0">Recherches en phénoménologie et herméneutique africaines</li></ul></div></div></section><section class="border-t border-ink/10 bg-paper"><div class="mx-auto max-w-6xl px-5 py-16"><div class=""><h2 class="display-title text-3xl text-terra sm:text-4xl">Ligne éditoriale</h2></div><div class="mt-8 grid gap-10 lg:grid-cols-[1.3fr_1fr]"><div class="prose-jogoo max-w-none"><p>L’ensemble du contenu de cet espace est libre : sous forme de posts, de brèves ou de chroniques, mais aussi sous forme d’articles à travers la revue qu’héberge le site. Le but est avant tout de contribuer à la diffusion de la philosophie africaine, souvent peu appréciée parce que peu et/ou mal connue.</p><p>Le contenu du site est mis sous l’autorité intellectuelle du Groupe JOGOO. Directeur de la publication et responsable du site : Yannick Essengue, président du Groupe JOGOO. Le contenu est mis à disposition selon les termes de la Licence Creative Commons Attribution – Pas d’Utilisation Commerciale – Pas de Modification 3.0 France.</p></div><div class="self-start"><p class="kicker">Quelques mots-clés</p><ul class="mt-3 flex flex-wrap gap-2"><li class="border border-ink/12 bg-cream/60 px-2.5 py-1 text-xs text-ink-soft">philosophie</li><li class="border border-ink/12 bg-cream/60 px-2.5 py-1 text-xs text-ink-soft">Afrique</li><li class="border border-ink/12 bg-cream/60 px-2.5 py-1 text-xs text-ink-soft">philosophie africaine</li><li class="border border-ink/12 bg-cream/60 px-2.5 py-1 text-xs text-ink-soft">conceptualisation</li><li class="border border-ink/12 bg-cream/60 px-2.5 py-1 text-xs text-ink-soft">sémiotique</li><li class="border border-ink/12 bg-cream/60 px-2.5 py-1 text-xs text-ink-soft">herméneutique</li><li class="border border-ink/12 bg-cream/60 px-2.5 py-1 text-xs text-ink-soft">discours</li><li class="border border-ink/12 bg-cream/60 px-2.5 py-1 text-xs text-ink-soft">discursivité</li><li class="border border-ink/12 bg-cream/60 px-2.5 py-1 text-xs text-ink-soft">sens</li><li class="border border-ink/12 bg-cream/60 px-2.5 py-1 text-xs text-ink-soft">signification</li><li class="border border-ink/12 bg-cream/60 px-2.5 py-1 text-xs text-ink-soft">parémiologie</li><li class="border border-ink/12 bg-cream/60 px-2.5 py-1 text-xs text-ink-soft">identité</li><li class="border border-ink/12 bg-cream/60 px-2.5 py-1 text-xs text-ink-soft">développement</li><li class="border border-ink/12 bg-cream/60 px-2.5 py-1 text-xs text-ink-soft">culture</li><li class="border border-ink/12 bg-cream/60 px-2.5 py-1 text-xs text-ink-soft">structure</li><li class="border border-ink/12 bg-cream/60 px-2.5 py-1 text-xs text-ink-soft">vie</li><li class="border border-ink/12 bg-cream/60 px-2.5 py-1 text-xs text-ink-soft">être</li><li class="border border-ink/12 bg-cream/60 px-2.5 py-1 text-xs text-ink-soft">ontologie</li><li class="border border-ink/12 bg-cream/60 px-2.5 py-1 text-xs text-ink-soft">Muntu</li><li class="border border-ink/12 bg-cream/60 px-2.5 py-1 text-xs text-ink-soft">interculturalité</li><li class="border border-ink/12 bg-cream/60 px-2.5 py-1 text-xs text-ink-soft">oralité</li><li class="border border-ink/12 bg-cream/60 px-2.5 py-1 text-xs text-ink-soft">écriture</li></ul></div></div></div></section><section class="border-t border-ink/10 bg-cream"><div class="mx-auto max-w-6xl px-5 py-16"><div class=""><p class="kicker mb-2">Gouvernance</p><h2 class="display-title text-3xl text-terra sm:text-4xl">Personnes ressources</h2></div><div class="mt-8 grid gap-4 sm:grid-cols-3"><div class="border-t-2 border-terra bg-white p-6"><p class="kicker">Président</p><p class="mt-2 font-brand text-lg font-bold text-ink">Yannick Essengue</p></div><div class="border-t-2 border-terra bg-white p-6"><p class="kicker">Vice-présidents</p><p class="mt-2 font-brand text-lg font-bold text-ink">Adoulou N. Bitang &amp; Sandrine Kongoue</p></div><div class="border-t-2 border-terra bg-white p-6"><p class="kicker">Secrétaire général</p><p class="mt-2 font-brand text-lg font-bold text-ink">Jean René Mabwilo</p></div></div><p class="mt-6 max-w-2xl text-sm text-ink-soft">Comité scientifique, statuts, adhésion et soutien : écrire à <a class="text-terra-deep underline underline-offset-2" href="mailto:philoafricaine@gmail.com">philoafricaine@gmail.com</a> , voir aussi la page <a class="text-terra-deep underline underline-offset-2" href="/contact">Contact</a>.</p></div></section><figure class="relative w-full overflow-hidden bg-ink" style="min-height:460px"><img alt="Portrait d’un jeune enfant, en noir et blanc" class="object-cover object-center opacity-80 grayscale" decoding="async" loading="lazy" src="/medias/site/jogoo/photo-enfant.jpg" style="position:absolute;height:100%;width:100%;left:0;top:0;right:0;bottom:0"/><div class="absolute inset-0 bg-gradient-to-r from-ink/95 via-ink/70 to-ink/30"></div><div class="relative mx-auto flex max-w-4xl flex-col justify-center px-6 py-14" style="min-height:460px"><span aria-hidden="true" class="mb-1 font-serif text-6xl leading-none text-terra">“</span><blockquote class="max-w-2xl font-serif text-lg italic leading-relaxed text-paper sm:text-xl">La philosophie ne commence qu’avec la décision de soumettre l’héritage philosophique et culturel à une critique sans complaisance. En fait la philosophie est essentiellement sacrilège.</blockquote><figcaption class="mt-3 text-sm font-medium not-italic text-gold">– Marcien Towa, Essai sur la problématique philosophique dans l’Afrique actuelle, Yaoundé, CLE, 1971, p. 29-30.</figcaption></div></figure>

diff --git a/app/(site)/mediatheque/page.tsx b/app/(site)/mediatheque/page.tsx
@@ -21,7 +21,7 @@ export default async function Mediatheque() {
       <EnTete kicker="Portail · 6" titre="Médiathèque" intro="Vidéos · Audio & podcasts · Galeries · Documents & archives." icone={null} />
       <div className="mx-auto max-w-5xl px-5 py-16">
         <a href="/la-minute-du-chant-du-coq" className="group mb-4 flex flex-col items-start gap-5 bg-[#140f0c] p-6 text-paper transition-colors hover:bg-[#241c18] sm:flex-row sm:items-center sm:p-8">
-          <img src="/medias/site/jogoo/coq-penseur-t.png" alt="" className="w-24 shrink-0 sm:w-28" />
+          <img src="/medias/site/jogoo/coq-penseur-gauche.png" alt="" className="w-24 shrink-0 sm:w-28" />
           <span className="flex-1">
             <span className="font-brand text-[0.65rem] font-bold uppercase tracking-[0.2em] text-gold">Rubrique vidéo</span>
             <span className="mt-1 block font-brand text-2xl font-bold text-white">La minute du chant du coq</span>

diff --git a/app/(site)/la-minute-du-chant-du-coq/page.tsx b/app/(site)/la-minute-du-chant-du-coq/page.tsx
@@ -22,7 +22,7 @@ export default async function Minutes() {
   return (
     <>
       <section className="relative isolate overflow-hidden bg-ink text-paper">
-        <img src="/medias/site/jogoo/coq-penseur-t.png" alt="" className="coq-flotte pointer-events-none absolute -bottom-8 right-[-4rem] -z-10 h-[105%] max-h-[30rem] opacity-90 sm:right-0" />
+        <img src="/medias/site/jogoo/coq-penseur-gauche.png" alt="" className="coq-flotte pointer-events-none absolute -bottom-8 right-[-4rem] -z-10 h-[105%] max-h-[30rem] opacity-90 sm:right-0" />
         <div className="absolute inset-0 -z-10 bg-[radial-gradient(ellipse_at_80%_40%,rgba(168,54,27,0.45),transparent_60%)]" aria-hidden="true" />
         <div className="mx-auto max-w-6xl px-5 py-16 sm:py-20">
           <p className="flex items-center gap-3 font-brand text-xs font-bold uppercase tracking-[0.24em] text-gold">

diff --git a/app/(site)/page.tsx b/app/(site)/page.tsx
@@ -230,7 +230,7 @@ export default async function Accueil() {
 
       {/* La minute du chant du coq */}
       <section className="relative isolate overflow-hidden bg-[#140f0c] text-paper">
-        <img src="/medias/site/jogoo/coq-penseur-t.png" alt="" className="coq-flotte pointer-events-none absolute -bottom-10 right-[-3rem] -z-10 h-[115%] max-h-[26rem] opacity-80 sm:right-6" />
+        <img src="/medias/site/jogoo/coq-penseur-gauche.png" alt="" className="coq-flotte pointer-events-none absolute bottom-0 right-[-3rem] -z-10 h-[92%] max-h-[24rem] opacity-80 sm:right-6" />
         <div className="absolute inset-0 -z-10 bg-[radial-gradient(ellipse_at_75%_50%,rgba(168,54,27,0.5),transparent_60%)]" aria-hidden="true" />
         <div className="mx-auto grid max-w-6xl items-center gap-8 px-5 py-14 lg:grid-cols-[1.1fr_1fr]">
           <div>

diff --git a/app/en/page.tsx b/app/en/page.tsx
@@ -24,7 +24,7 @@ export default async function Accueil() {
   return (
     <>
       <section className="relative overflow-hidden bg-[#eabf31]">
-        <img src="/medias/site/jogoo/coq-penseur-t.png" alt="" className="pointer-events-none absolute -bottom-10 right-0 hidden h-[115%] max-h-[34rem] lg:block" />
+        <img src="/medias/site/jogoo/coq-penseur-gauche.png" alt="" className="pointer-events-none absolute -bottom-10 right-0 hidden h-[115%] max-h-[34rem] lg:block" />
         <div className="relative mx-auto max-w-6xl px-5 py-20 sm:py-24">
           <p className="font-brand text-xs font-bold uppercase tracking-[0.24em] text-ink/70">Groupe JOGOO</p>
           <h1 className="mt-4 max-w-3xl font-brand text-4xl font-black leading-[1.05] tracking-tight text-ink sm:text-6xl">

diff --git a/app/(site)/not-found.tsx b/app/(site)/not-found.tsx
@@ -5,7 +5,7 @@ export default function Introuvable() {
         alt=""
         aria-hidden="true"
         src="/medias/site/jogoo/coq-penseur.jpg"
-        className="jogoo-loader-watermark pointer-events-none absolute -bottom-[6vh] -right-[12vh] h-[50vh] w-[50vh] max-w-none object-contain opacity-80"
+        className="jogoo-loader-watermark -scale-x-100 pointer-events-none absolute -bottom-[6vh] -right-[12vh] h-[50vh] w-[50vh] max-w-none object-contain opacity-80"
       />
       <div className="relative mx-auto max-w-6xl px-5 py-20 sm:py-28">
         <p className="eyebrow text-ink/70">Erreur 404</p>

diff --git a/app/og/route.tsx b/app/og/route.tsx
@@ -40,7 +40,7 @@ export async function GET(req: Request) {
   const [photo, logo, coq] = await Promise.all([
     image && image.startsWith('/') ? enDonnees(image) : Promise.resolve(null),
     enDonnees('/medias/site/jogoo/logo-jogoo-blanc.png'),
-    enDonnees('/medias/site/jogoo/coq-penseur-t.png'),
+    enDonnees('/medias/site/jogoo/coq-penseur-gauche.png'),
   ]);
   if (q.get('v') === 'edito') {
     const sousTitre = (q.get('st') || '').slice(0, 140);

diff --git a/scripts/fragments.py b/scripts/fragments.py
@@ -233,3 +233,8 @@ for nom in ('home-04-colonnes.html', 'home-04.html'):
         return tag.replace('h-auto max-h-16 w-auto max-w-20', 'w-auto max-w-20')
     h = _re.sub(r'<img alt="Logo[^>]*>', _logo, h)
     open(f, 'w').write(h)
+# Le coq regarde toujours vers la gauche ; le bout de la queue, coupé dans le dessin d’origine, s’estompe
+for f in _g.glob(OUT + '/*.html'):
+    h = open(f).read(); h0 = h
+    h = h.replace('src="/medias/site/jogoo/coq-penseur-t.png"', 'src="/medias/site/jogoo/coq-penseur-gauche.png"')
+    if h != h0: open(f, 'w').write(h)
